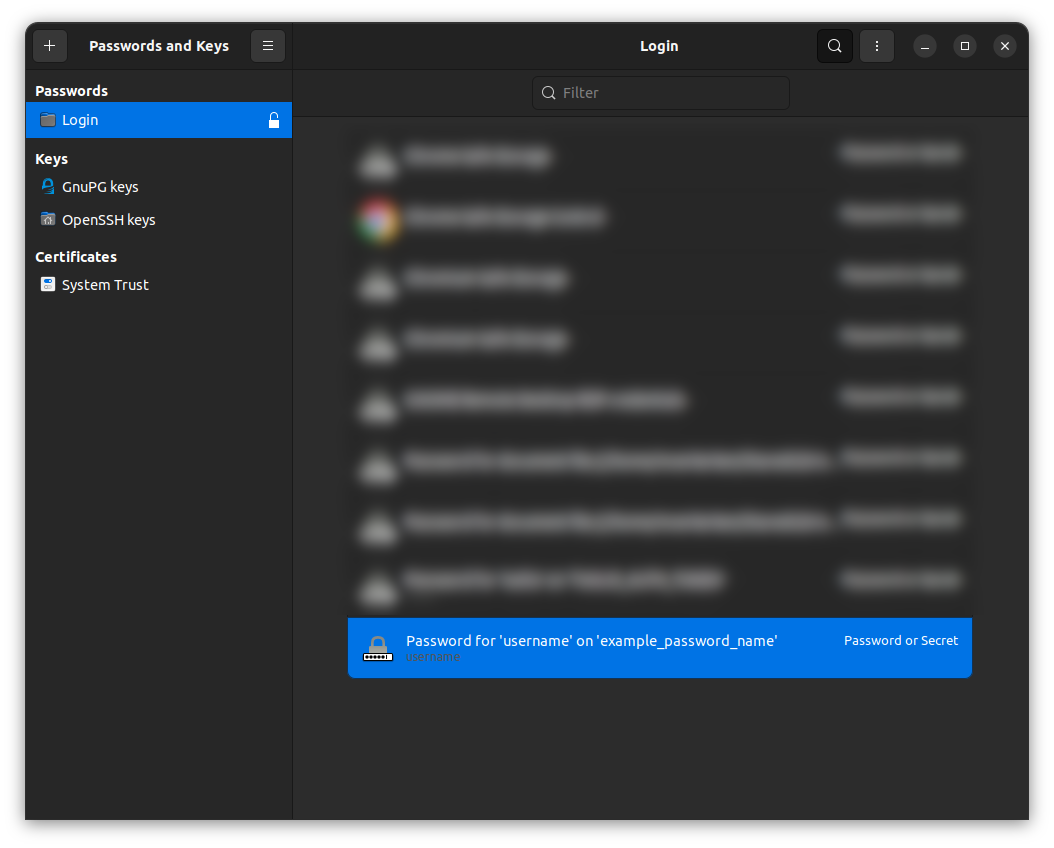
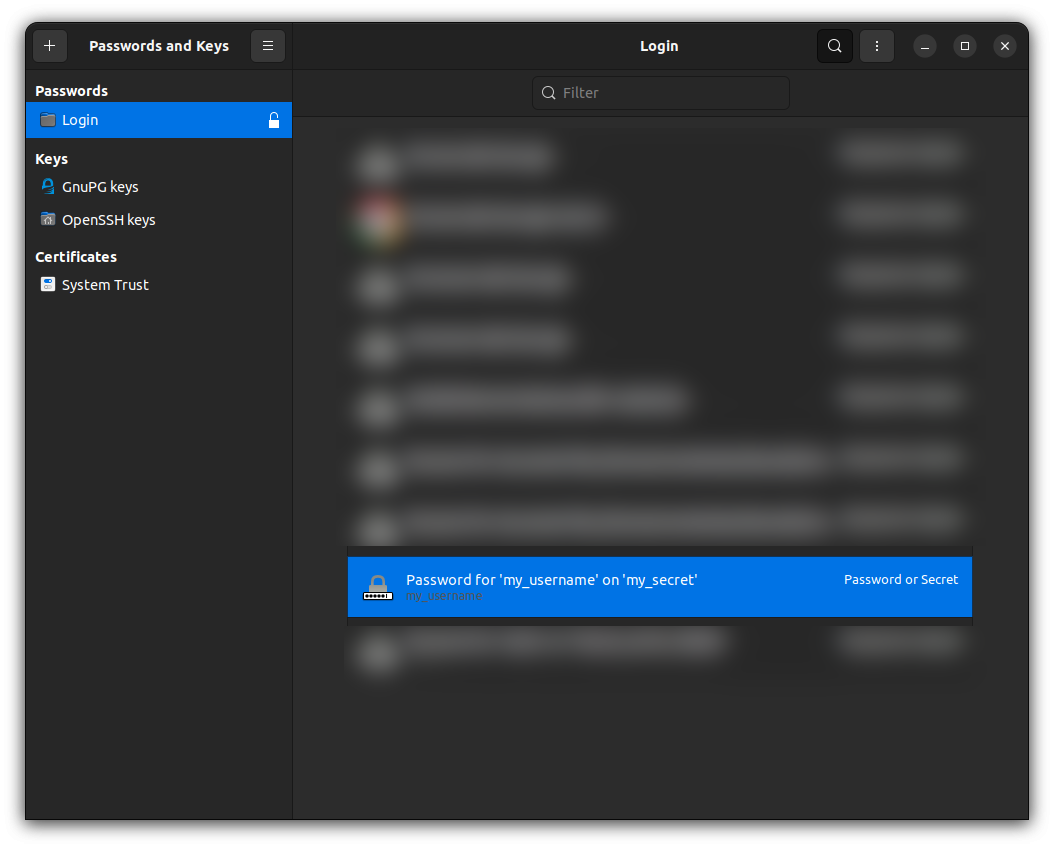
Update values to match with other examples

diff --git a/README.md b/README.md
@@ -111,7 +111,7 @@ On Linux, the easiest way to add a credential is via python's `keyring` package.
 
 ```python
 >>> import keyring
->>> keyring.set_password("example_password_name", "username", "password")
+>>> keyring.set_password("my-secret", "my-username", "foobar")
 ```
 
 after which it appears in the credential manager. This approach should generalize for other distributions (and even other OS's). On Ubuntu `seahorse` is used, which now should show the new password:
